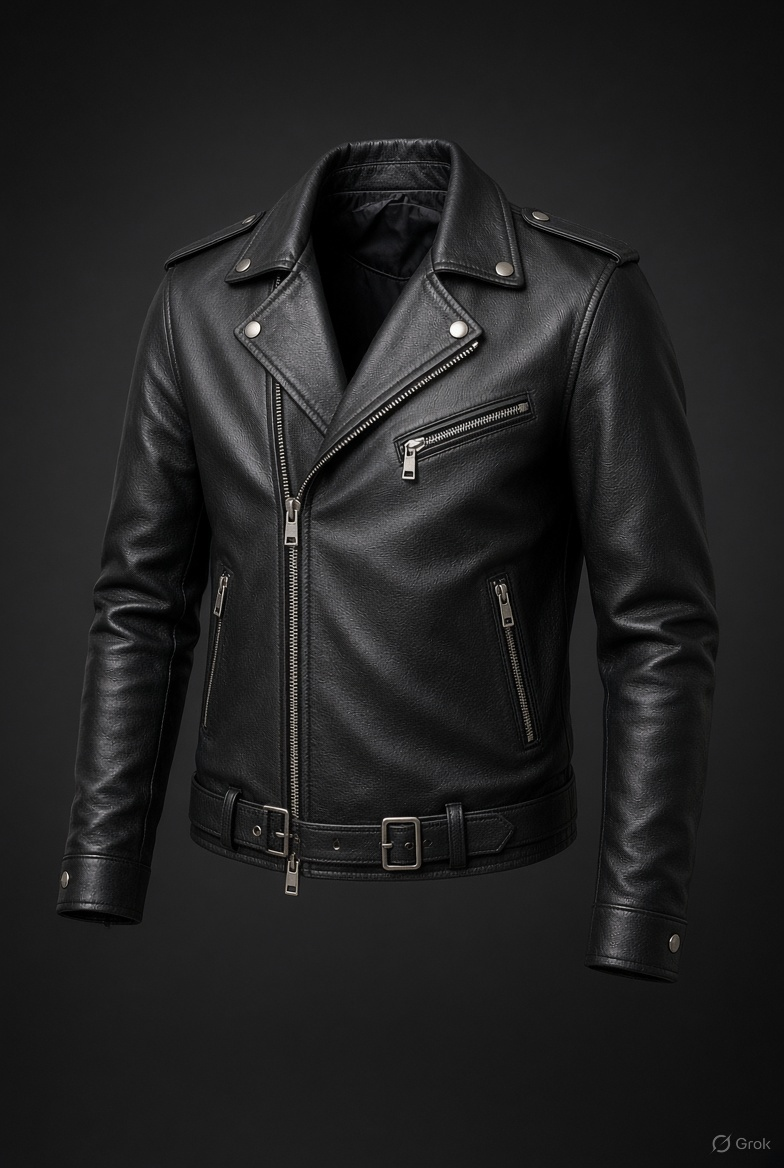
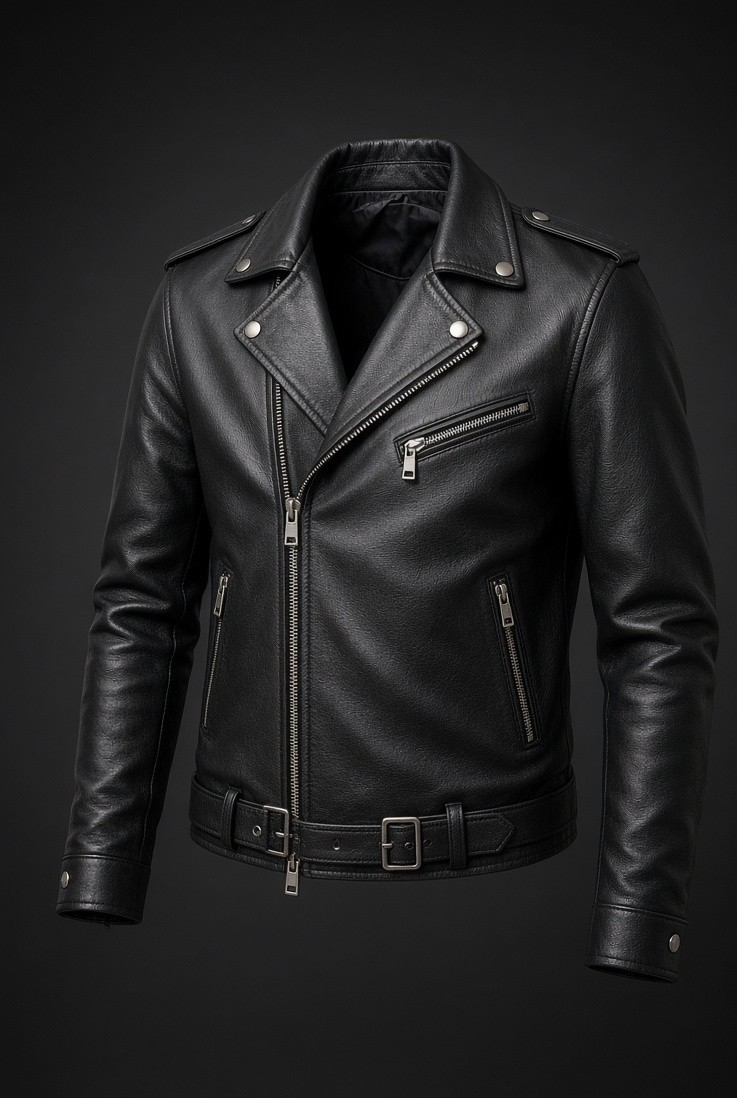
Crop watermark from product photos, mobile progress bar, product docs
- jacket.jpg / shirt.jpg: crop 6% from the right and bottom edges to
  remove the watermark (aspect ratio unchanged); uncropped originals kept
  in git-ignored originals/images/
- Mobile: replace the right-side progress rail with a thin bar along the
  bottom edge so it no longer overlaps the model; desktop rail unchanged
- README: "How to edit products" section documenting lib/products.ts

Claude-Session: https://claude.ai/code/session_015yLqhUgLFCXhcnwqTbfv2p

Changed region(s): [[0.0624, 0.0929, 0.9362, 0.898], [0.905, 0.9599, 0.9674, 0.9909], [0.905, 0.8361, 0.9362, 0.867]]

diff --git a/components/ProgressIndicator.tsx b/components/ProgressIndicator.tsx
@@ -2,7 +2,10 @@
 
 import type { ResolvedProduct } from "@/lib/products";
 
-/** Right-hand scroll progress: a gold fill line plus one dot per product. */
+/**
+ * Scroll progress: on desktop a right-hand rail with one dot per product; on
+ * mobile a thin bar along the bottom edge so it never overlaps the model.
+ */
 export default function ProgressIndicator({
   products,
   onSelect,
@@ -11,26 +14,31 @@ export default function ProgressIndicator({
   onSelect: (index: number) => void;
 }) {
   return (
-    <div data-progress className="fixed right-4 top-1/2 z-40 -translate-y-1/2 opacity-0 transition-opacity duration-700 sm:right-8">
-      <div className="relative flex flex-col items-center gap-5 py-1">
-        <span className="absolute inset-y-0 left-1/2 w-px -translate-x-1/2 bg-white/10" />
-        <span data-progress-fill className="absolute left-1/2 top-0 w-px origin-top -translate-x-1/2 bg-gold" style={{ height: "100%", transform: "scaleY(0)" }} />
-        {products.map((p, i) => (
-          <button
-            key={p.id}
-            type="button"
-            data-progress-dot
-            onClick={() => onSelect(i)}
-            aria-label={`Go to ${p.name}`}
-            className="group relative grid h-3 w-3 place-items-center"
-          >
-            <span className="h-1.5 w-1.5 rounded-full bg-white/30 transition-all duration-500 group-data-[active=true]:h-2.5 group-data-[active=true]:w-2.5 group-data-[active=true]:bg-gold group-data-[active=true]:shadow-[0_0_12px_var(--glow)]" />
-            <span className="pointer-events-none absolute right-6 whitespace-nowrap text-[10px] uppercase tracking-[0.3em] text-white/0 transition-colors duration-300 group-hover:text-white/70 group-data-[active=true]:text-gold-soft/80 max-sm:hidden">
-              {p.name}
-            </span>
-          </button>
-        ))}
+    <>
+      <div data-progress aria-hidden className="fixed inset-x-0 bottom-0 z-40 h-0.5 bg-white/10 opacity-0 transition-opacity duration-700 md:hidden">
+        <span data-progress-fill-x className="block h-full w-full origin-left bg-gold" style={{ transform: "scaleX(0)" }} />
       </div>
-    </div>
+      <div data-progress className="fixed right-8 top-1/2 z-40 -translate-y-1/2 opacity-0 transition-opacity duration-700 max-md:hidden">
+        <div className="relative flex flex-col items-center gap-5 py-1">
+          <span className="absolute inset-y-0 left-1/2 w-px -translate-x-1/2 bg-white/10" />
+          <span data-progress-fill className="absolute left-1/2 top-0 w-px origin-top -translate-x-1/2 bg-gold" style={{ height: "100%", transform: "scaleY(0)" }} />
+          {products.map((p, i) => (
+            <button
+              key={p.id}
+              type="button"
+              data-progress-dot
+              onClick={() => onSelect(i)}
+              aria-label={`Go to ${p.name}`}
+              className="group relative grid h-3 w-3 place-items-center"
+            >
+              <span className="h-1.5 w-1.5 rounded-full bg-white/30 transition-all duration-500 group-data-[active=true]:h-2.5 group-data-[active=true]:w-2.5 group-data-[active=true]:bg-gold group-data-[active=true]:shadow-[0_0_12px_var(--glow)]" />
+              <span className="pointer-events-none absolute right-6 whitespace-nowrap text-[10px] uppercase tracking-[0.3em] text-white/0 transition-colors duration-300 group-hover:text-white/70 group-data-[active=true]:text-gold-soft/80 ">
+                {p.name}
+              </span>
+            </button>
+          ))}
+        </div>
+      </div>
+    </>
   );
 }

diff --git a/components/Experience.tsx b/components/Experience.tsx
@@ -56,6 +56,7 @@ export default function Experience({ products }: { products: ResolvedProduct[] }
     const names = Array.from(document.querySelectorAll<HTMLElement>("[data-outline-name]"));
     const dots = Array.from(document.querySelectorAll<HTMLElement>("[data-progress-dot]"));
     const fill = document.querySelector<HTMLElement>("[data-progress-fill]");
+    const fillX = document.querySelector<HTMLElement>("[data-progress-fill-x]");
     const root = document.documentElement;
 
     const ctx = gsap.context(() => {
@@ -121,7 +122,8 @@ export default function Experience({ products }: { products: ResolvedProduct[] }
     // Per-frame visuals that follow scrollState.t: background tint, outline names, progress rail.
     let lastBg = "";
     let lastActive = -1;
-    const progressEl = document.querySelector<HTMLElement>("[data-progress]");
+    const progressEls = Array.from(document.querySelectorAll<HTMLElement>("[data-progress]"));
+    let progressShown = false;
     const visuals = () => {
       const t = scrollState.t;
       const u = t - EXIT_START;
@@ -146,8 +148,13 @@ export default function Experience({ products }: { products: ResolvedProduct[] }
         if (o > 0.001) el.style.transform = `translate3d(${(0.4 - local) * 12}vw,0,0)`;
       });
 
-      if (progressEl && t > -0.15 && progressEl.style.opacity === "") progressEl.style.opacity = "1";
-      if (fill) fill.style.transform = `scaleY(${clamp01(t / (N - 1 + 0.2))})`;
+      if (!progressShown && t > -0.15) {
+        progressShown = true;
+        progressEls.forEach((el) => (el.style.opacity = "1"));
+      }
+      const progress = clamp01(t / (N - 1 + 0.2));
+      if (fill) fill.style.transform = `scaleY(${progress})`;
+      if (fillX) fillX.style.transform = `scaleX(${progress})`;
       const active = Math.min(N - 1, Math.max(0, Math.round(t - 0.4)));
       if (active !== lastActive) {
         lastActive = active;

diff --git a/README.md b/README.md
@@ -20,9 +20,45 @@ At build time `app/page.tsx` checks whether each `modelPath` exists in `/public`
 
 To upgrade jacket/shirt/belt to 3D, drop `jacket.glb`, `shirt.glb` or `belt.glb` into `public/models/` and rebuild.
 
+## How to edit products
+
+Every product on the page comes from the `products` array in [`lib/products.ts`](lib/products.ts).
+The order of the array is the scroll order. Each entry looks like this:
+
+```ts
+{
+  id: "jacket",                     // unique key, also used in the section anchor (#product-jacket)
+  name: "Vanguard",                 // big heading + faded outline name behind the model
+  category: "Outerwear",            // small gold label above the name
+  tagline: "Lambskin biker, cut close and built to last a lifetime.",
+  price: 2650,                      // number in USD, formatted automatically ($2,650)
+  modelPath: "/models/jacket.glb",  // 3D model, relative to /public
+  imagePath: "/images/jacket.jpg",  // fallback photo, relative to /public
+  glow: "#b08d57",                  // main glow colour behind the product (also the card frame)
+  glow2: "#3f3566",                 // secondary glow (the muted purple)
+  bg: "#0b0a0d",                    // base background tint for this section
+}
+```
+
+| Field | What it does |
+| --- | --- |
+| `name` | Product title in the section and in the large outline text behind the model. |
+| `tagline` | One-line description under the title. Keep it short (about 60 characters). |
+| `price` | Plain number; shown as USD with no decimals. Change `formatPrice` in the same file for another currency. |
+| `modelPath` | Path to a `.glb` in `public/models/`. If the file exists at build time it is shown in 3D. Models are auto-centred and scaled, so any size works, but keep files under ~5 MB. Use plain GLB (not Draco-compressed). |
+| `imagePath` | Path to a photo in `public/images/`, used only when `modelPath` does not exist. Portrait images around 2:3 look best. |
+| `glow`, `glow2`, `bg` | Hex colours. The background blends smoothly between products' colours as you scroll. |
+
+**Common edits**
+
+- *Change copy or price:* edit the fields and save; the dev server reloads.
+- *Add a product:* add a new object to the array, plus its model or image in `public/`. Sections, the progress indicator and the "01 / 07" counter all update automatically.
+- *Reorder:* move entries within the array.
+- *Switch a product from image to 3D:* put the `.glb` at its `modelPath`, then restart `npm run dev` or rebuild (the file check runs on the server).
+
 ## Assets
 
 - `public/models/*.glb` — optimised, plain GLB (no Draco), loaded with `useGLTF`.
-- `public/images/*.jpg` — fallback product photos.
+- `public/images/*.jpg` — fallback product photos (jacket and shirt cropped to remove a watermark; uncropped copies in `originals/images/`).
 - `public/hdri/studio.exr` — drei's "studio" environment (CC0, from `@pmndrs/assets`), self-hosted.
 - `originals/` — uncompressed source files; git-ignored, never commit.
